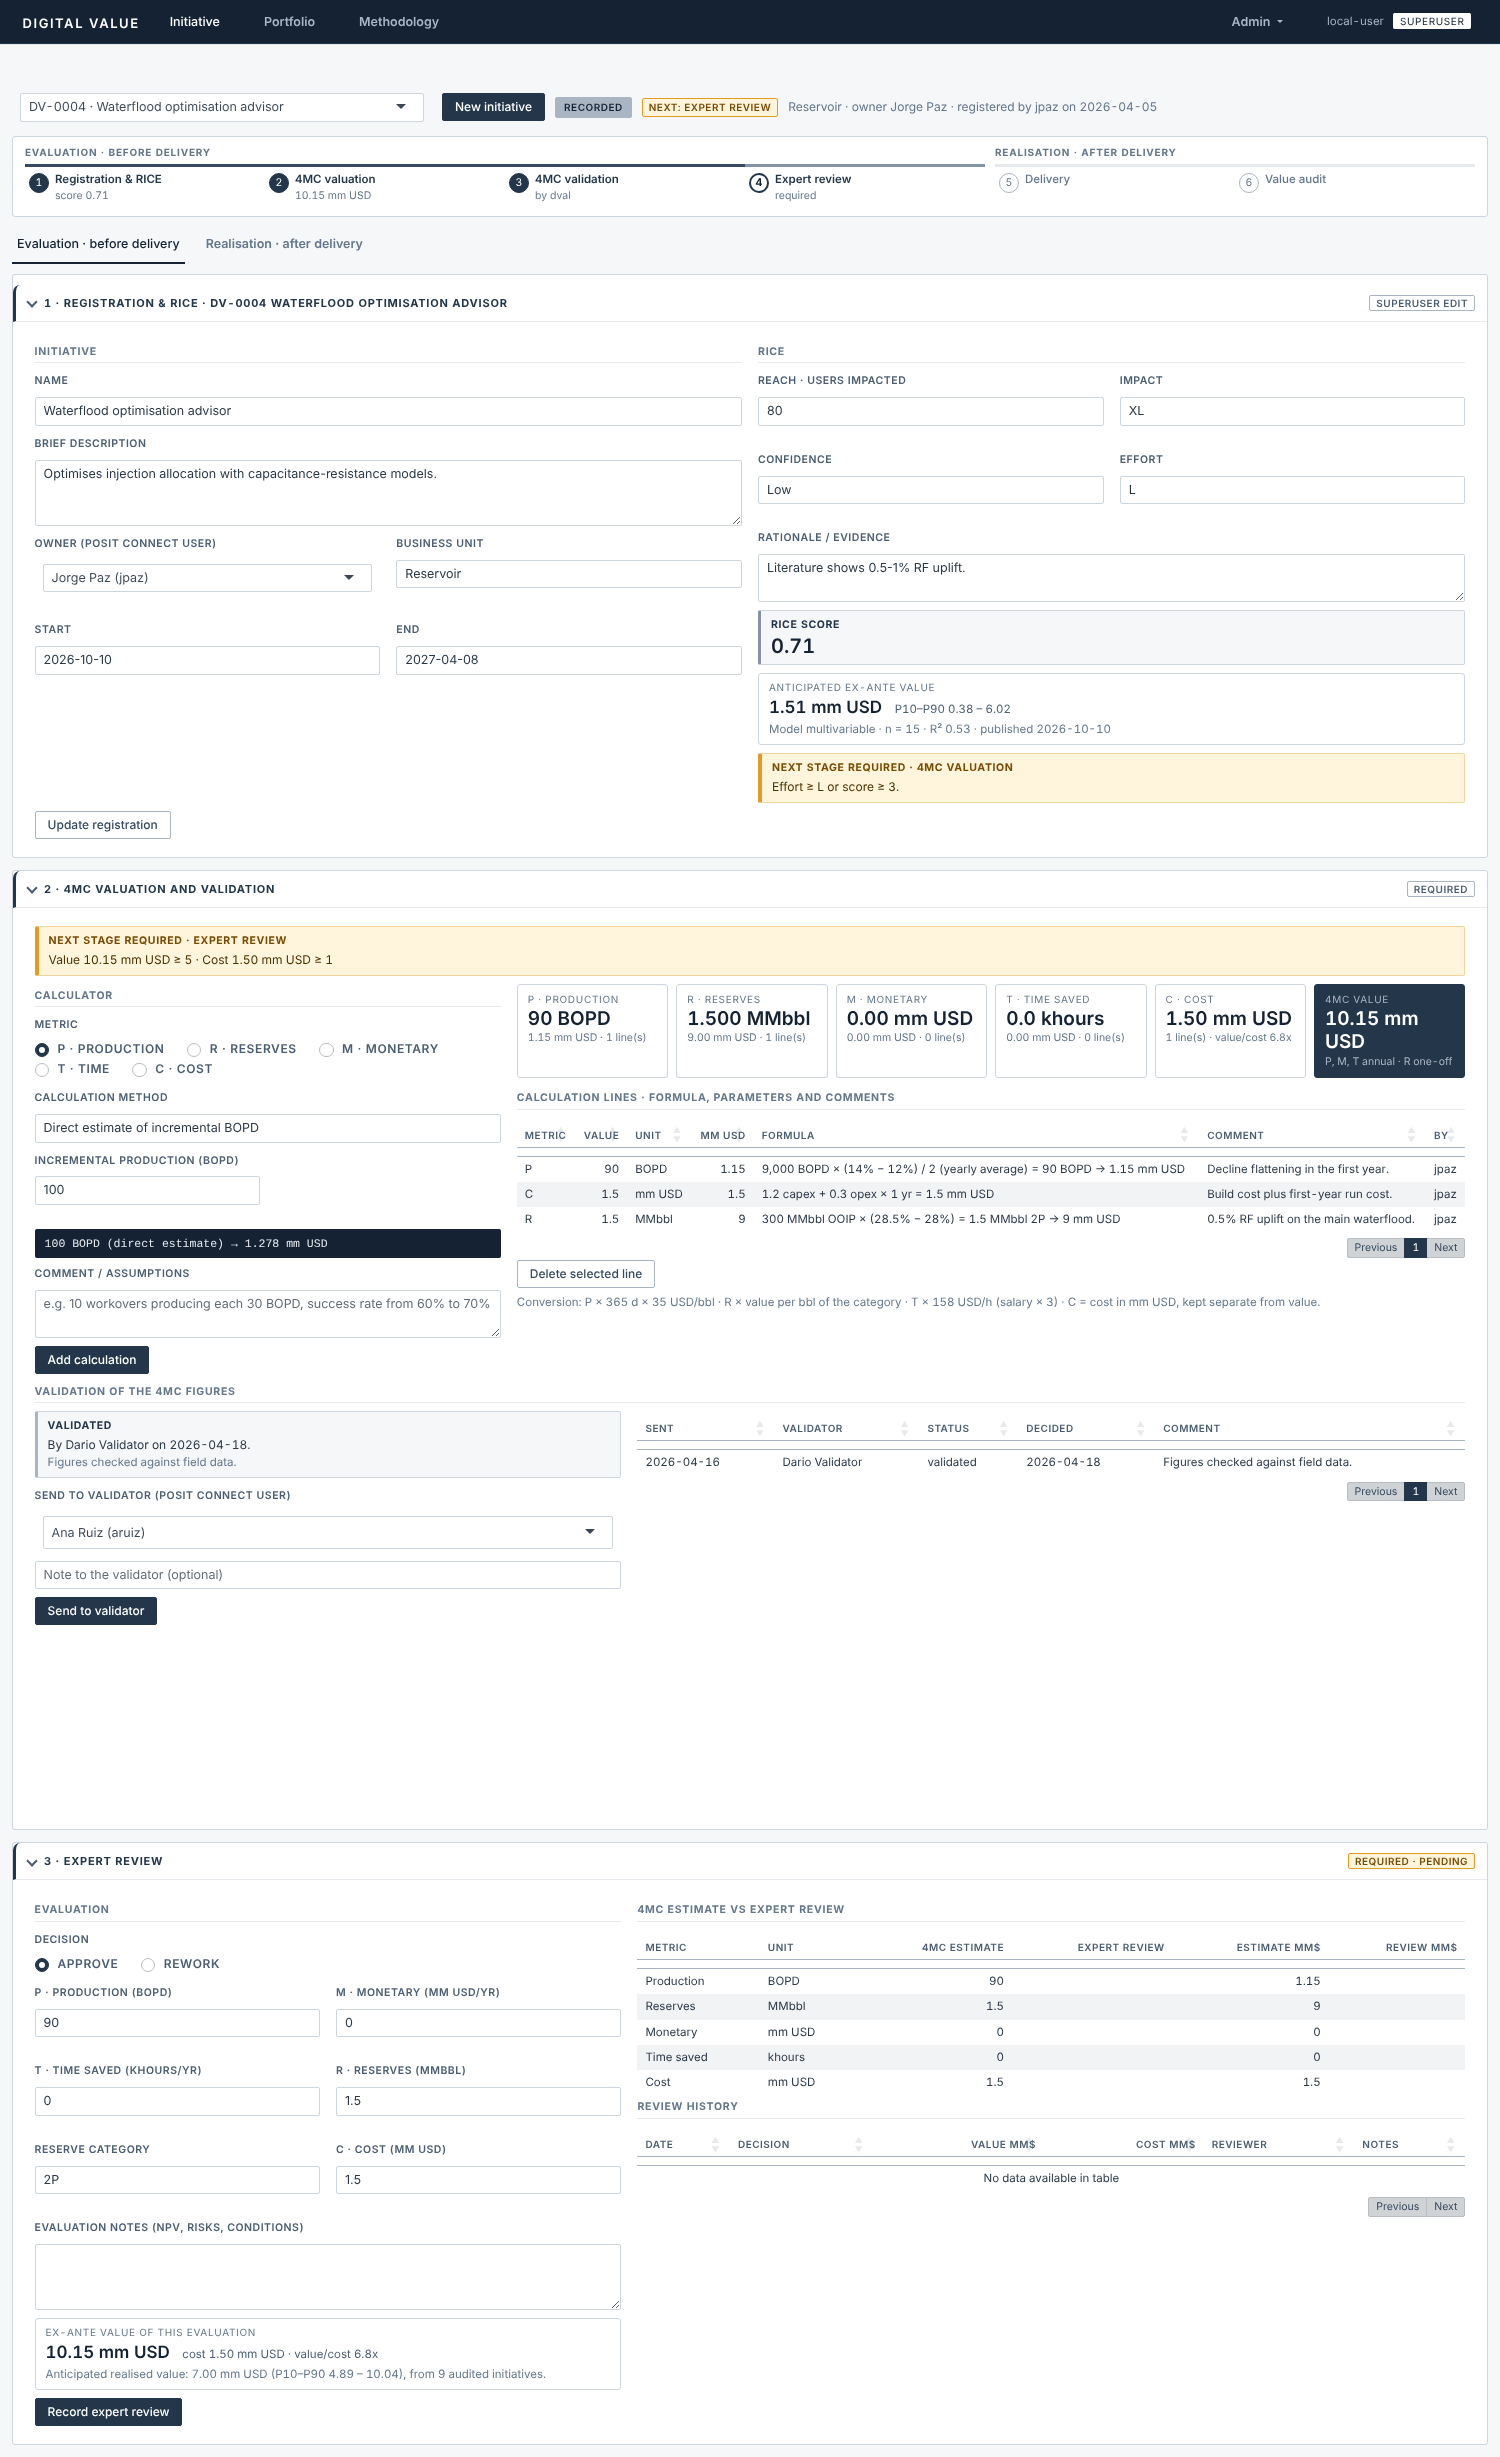
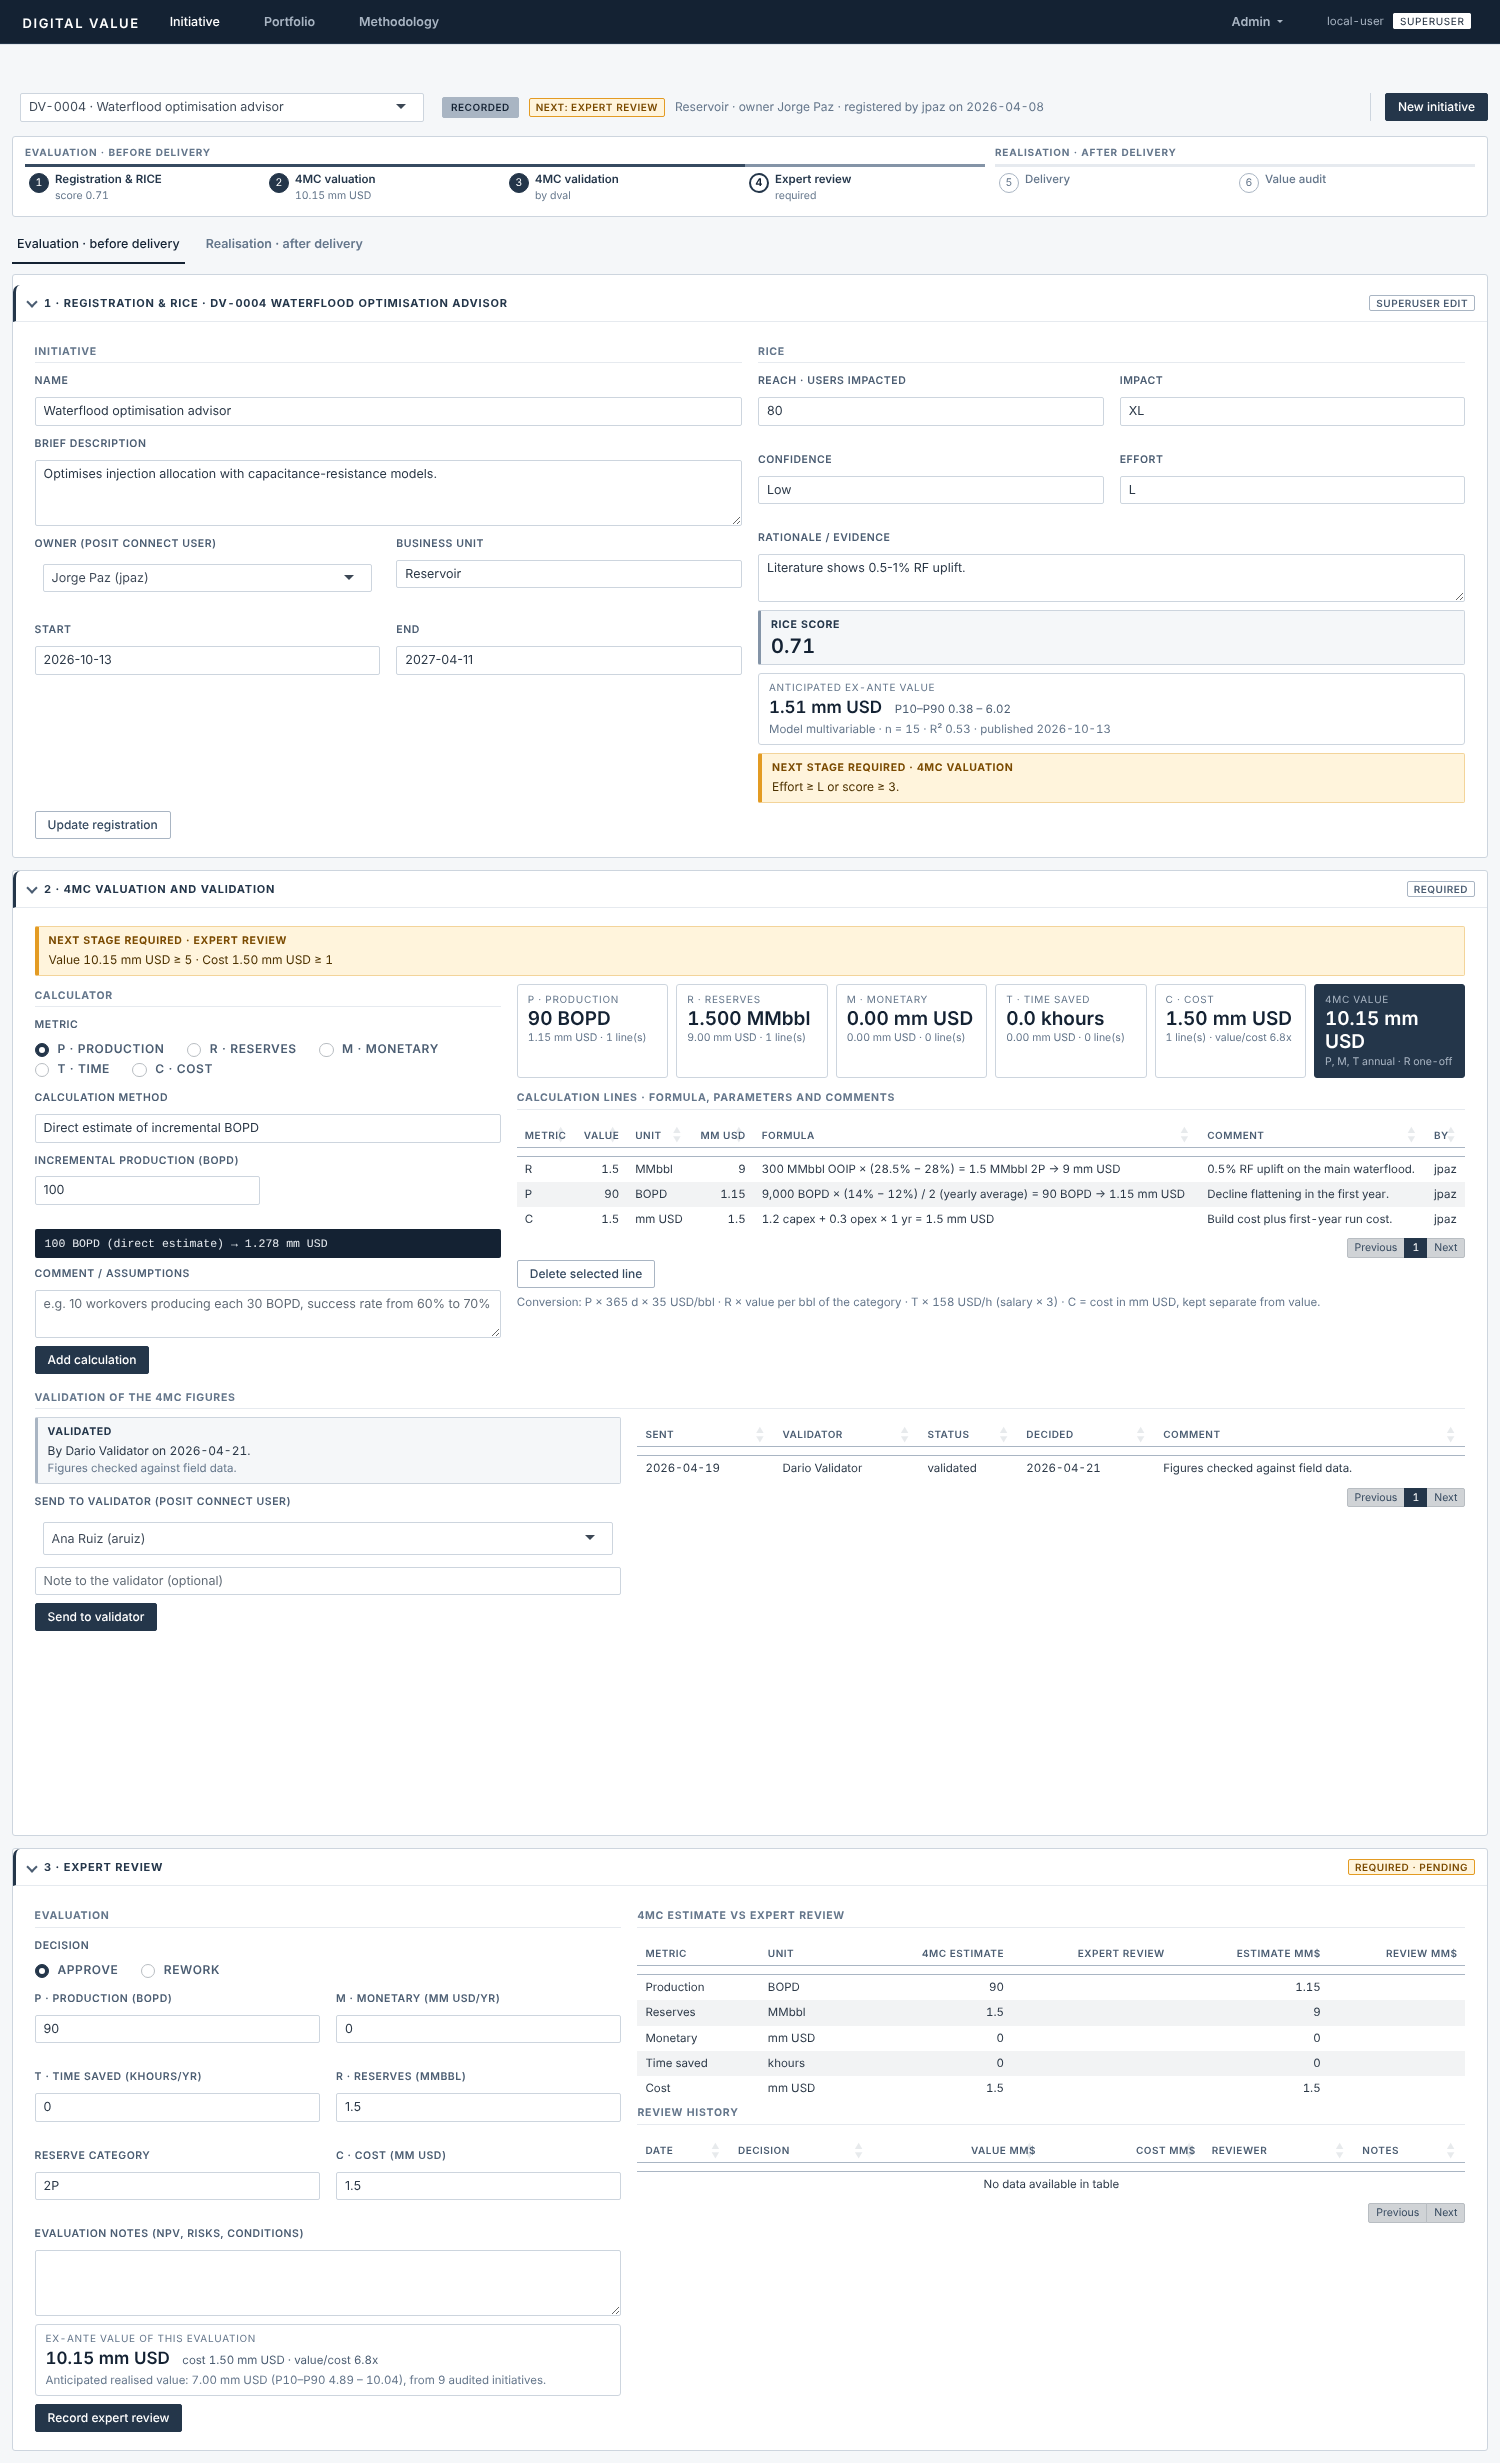
Move New initiative button to the right of the initiative toolbar
Claude-Session: https://claude.ai/code/session_01N1EZf5BA3aM5WkjAKRAdJP

diff --git a/inst/app/www/styles.css b/inst/app/www/styles.css
@@ -53,6 +53,7 @@ label, .control-label { font-size: 10.5px; font-weight: 600; color: var(--c600);
 .dv-toolbar { display: flex; align-items: center; gap: 10px; flex-wrap: wrap; margin-bottom: 10px; }
 .dv-toolbar-select { width: 420px; max-width: 100%; }
 .dv-toolbar-select .shiny-input-container { margin: 0 !important; }
+.dv-toolbar-end { margin-left: auto; padding-left: 14px; border-left: 1px solid var(--c200); }
 .dv-headline { display: flex; align-items: center; gap: 10px; }
 .dv-headline-meta { color: var(--c500); font-size: 12px; }
 .dv-stepper { display: grid; grid-template-columns: 2fr 1fr; gap: 10px; background: #fff;
